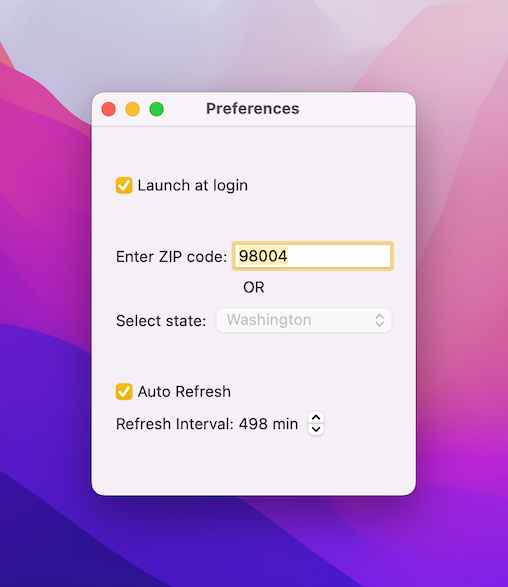
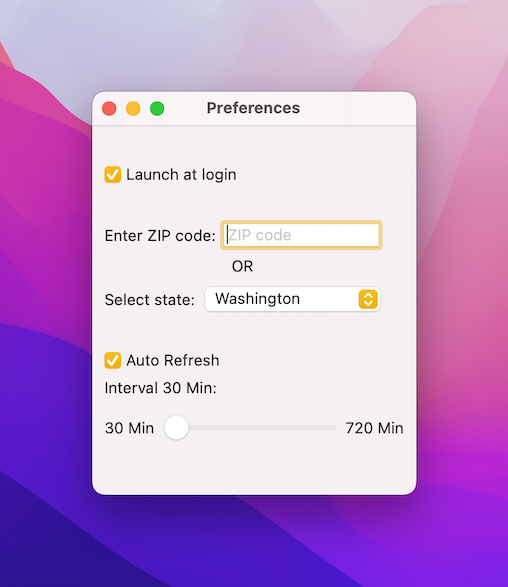
use slider instead of steper
use slider instead of steper

Changed region(s): [[0.1772, 0.1533, 0.8268, 0.8586], [0.6791, 0.4906, 0.7677, 0.552]]

diff --git a/AOS/View/PreferenceView.swift b/AOS/View/PreferenceView.swift
@@ -14,6 +14,17 @@ struct PreferenceView: View {
     @Preference(\.selectedState) var selectedState
     @Preference(\.searchZipCode) var searchZipCode
     
+    var intProxy: Binding<Double>{
+            Binding<Double>(get: {
+                //returns the score as a Double
+                return Double(refreshInterval)
+            }, set: {
+                //rounds the double to an Int
+                print($0.description)
+                refreshInterval = Int($0)
+            })
+        }
+    
     var body: some View {
         VStack(alignment: .leading) {
             Spacer()
@@ -47,12 +58,17 @@ struct PreferenceView: View {
             
             Group() {
                 Toggle("Auto Refresh", isOn: $autoRefreshEnabled)
-                Stepper("Refresh Interval: \(refreshInterval) min",
-                        value: $refreshInterval,
-                        in: 30...720,
-                        step: 10)
-                .disabled(!autoRefreshEnabled)
-            }.frame(width: 200, alignment: .leading)
+                VStack(alignment: .leading) {
+                    Text("Interval \(refreshInterval) Min: ")
+                    Slider(value: intProxy, in: 30...720) {
+                        } minimumValueLabel: {
+                            Text("30 Min")
+                        } maximumValueLabel: {
+                            Text("720 Min")
+                        } onEditingChanged: { _ in }
+                        .disabled(!autoRefreshEnabled)
+                }                
+            }.frame(width: 250, alignment: .leading)
             
             Spacer()
         }
